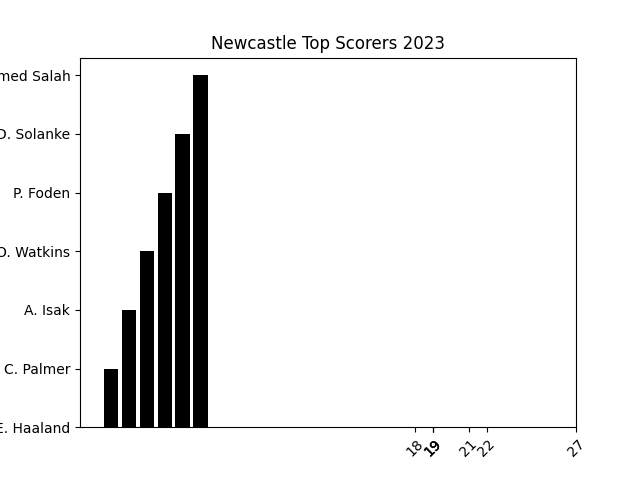
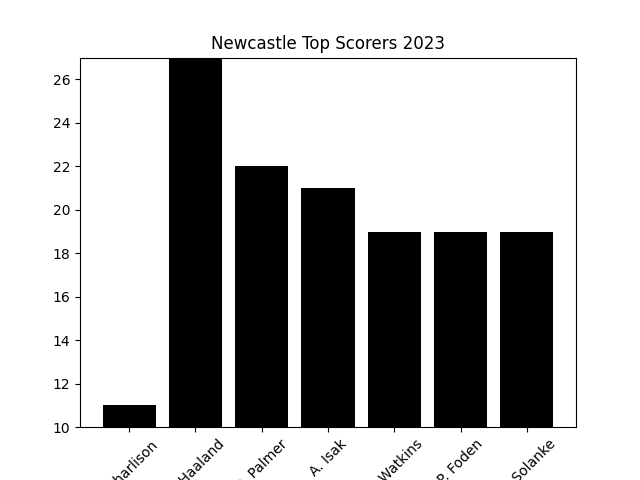
Bar Chart

diff --git a/main.py b/main.py
@@ -988,37 +988,26 @@ with tab2:
 		top_scorers_max = max(top_scorers.values())
 		top_scorers_lst = list(top_scorers.values())
 
-		ic(top_scorers)
-
-		top_scorers_sorted = dict(sorted(top_scorers.items(), key=lambda item: item[1], reverse=True))
-
-		ic(top_scorers_sorted)
-
 		top_scorers_sorted_dict = {}
+		top_scorers_name_lst = []
 		top_scorers_score_lst = []
 
-		for k, v in top_scorers_sorted.copy().items():
+		for k, v in top_scorers.copy().items():
 			top_scorers_sorted_dict[v] = k
-			top_scorers_score_lst.append(k)
+			top_scorers_name_lst.append(k)
+			top_scorers_score_lst.append(v)
 
-		ic(top_scorers_sorted_dict)
-		ic(top_scorers_score_lst)
-		# top_scorers_sorted = sorted(top_scorers_sorted)
-
-		top_scorers_name_lst = list(top_scorers_sorted.values())
+		# top_scorers_name_lst = list(top_scorers_sorted.values())
 		top_scorers_name_lst = top_scorers_name_lst[0:7]
 		top_scorers_score_lst = top_scorers_score_lst[0:7]
 
 		x = range(7)
 
-		top_scorers_lst = top_scorers_lst[0:7]
-
 		ic(top_scorers_name_lst)
 		ic(top_scorers_score_lst)
 
-		plt.bar(x, top_scorers_name_lst)
-		plt.xticks(x, top_scorers_score_lst, rotation=45)
-		# plt.yticks(top_scorers_score_lst)
+		plt.bar(top_scorers_name_lst, top_scorers_score_lst)
+		plt.xticks(top_scorers_name_lst, rotation=45)
 		plt.title(f'{team} Top Scorers 2023')
 		plt.savefig('data/bar_scorers.png')
 		plt_away_time = 'data/bar_scorers.png'
